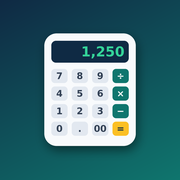
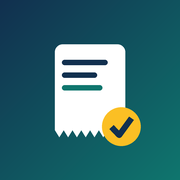
Add files via upload

Changed region(s): [[0.2222, 0.1667, 0.8056, 0.8611]]

diff --git a/index.html b/index.html
@@ -1,7 +1,7 @@
 <!DOCTYPE html><html lang="ar" dir="rtl"><head><meta charset="utf-8"><meta name="apple-mobile-web-app-capable" content="yes"><meta name="mobile-web-app-capable" content="yes"><meta name="theme-color" content="#12304f"><link rel="manifest" href="manifest.webmanifest"><link rel="apple-touch-icon" href="icon-180.png"><link rel="icon" href="icon-192.png"><meta name="viewport" content="width=device-width, initial-scale=1, viewport-fit=cover"><title>فواتير اليوم</title><style>
 :root{--bg:#f3f5f8;--cd:#fff;--tx:#18212b;--mu:#667383;--ac:#0e7c72;--on:#fff;--bd:#e1e6ec;--bad:#c0362c;color-scheme:light;box-sizing:border-box;padding-top:env(safe-area-inset-top,0px);padding-bottom:env(safe-area-inset-bottom,0px)}
-@media(prefers-color-scheme:dark){:root:not([data-theme="light"]){--bg:#0e141b;--cd:#17202a;--tx:#e8edf2;--mu:#8d9bab;--ac:#35cdb9;--on:#06241f;--bd:#243140;--bad:#ff7a70;color-scheme:dark}}
-:root[data-theme="dark"]{--bg:#0e141b;--cd:#17202a;--tx:#e8edf2;--mu:#8d9bab;--ac:#35cdb9;--on:#06241f;--bd:#243140;--bad:#ff7a70;color-scheme:dark}
+@media(prefers-color-scheme:dark){:root:not([data-theme="light"]){--bg:#0b1826;--cd:#122234;--tx:#e8edf2;--mu:#8d9bab;--ac:#35cdb9;--on:#06241f;--bd:#1f3349;--bad:#ff7a70;color-scheme:dark}}
+:root[data-theme="dark"]{--bg:#0b1826;--cd:#122234;--tx:#e8edf2;--mu:#8d9bab;--ac:#35cdb9;--on:#06241f;--bd:#1f3349;--bad:#ff7a70;color-scheme:dark}
 *{box-sizing:border-box}html,body{margin:0}body{background:var(--bg);color:var(--tx);font:15px/1.5 system-ui,"Segoe UI",Tahoma,Arial,sans-serif;max-width:560px;margin:auto;padding:12px}
 h1{font-size:18px;margin:4px 0}.mu{color:var(--mu);font-size:13px}.cd{background:var(--cd);border:1px solid var(--bd);border-radius:12px;padding:12px;margin:10px 0}
 button,.btn{font:inherit;background:var(--ac);color:var(--on);border:0;border-radius:10px;padding:10px 14px;cursor:pointer;display:inline-block}
@@ -23,15 +23,26 @@ input,select{border-radius:10px;padding:10px 12px}input:focus,select:focus{outli
 #ov{position:fixed;inset:0;background:rgba(0,0,0,.5);opacity:0;pointer-events:none;transition:opacity .2s;z-index:20}
 #dr{position:fixed;top:0;bottom:0;right:0;width:min(88vw,380px);background:var(--bg);z-index:21;transform:translateX(105%);transition:transform .25s;overflow-y:auto;padding:14px;padding-top:calc(14px + env(safe-area-inset-top,0px));box-shadow:-8px 0 30px rgba(0,0,0,.3)}
 body.dro #dr{transform:none}body.dro #ov{opacity:1;pointer-events:auto}.dh{display:flex;justify-content:space-between;align-items:center;margin-bottom:6px;font-size:17px}#dr>button{width:100%;margin-top:8px;text-align:right}
+body{padding-bottom:120px}
+#nav{position:fixed;bottom:calc(12px + env(safe-area-inset-bottom,0px));left:50%;transform:translateX(-50%);width:calc(100% - 28px);max-width:532px;height:64px;background:linear-gradient(135deg,#12304f,#0f4c5c);border-radius:22px;box-shadow:0 10px 30px rgba(0,0,0,.35);display:grid;grid-template-columns:1fr 1fr 76px 1fr 1fr;align-items:center;z-index:10}
+#nav button{position:relative;height:100%;background:none;border:0;border-radius:22px;padding:6px 0 4px;color:#7b8794;display:flex;flex-direction:column;align-items:center;justify-content:center;gap:3px;font-size:11px;font-weight:500;overflow:hidden}
+#nav button:not(.g){color:#fff}
+#nav button:not(.g)::before{content:"";position:absolute;top:0;left:50%;width:34px;height:3px;margin-left:-17px;background:#fbbf24;border-radius:0 0 4px 4px}
+#nav button:not(.g)::after{content:"";position:absolute;top:3px;left:50%;width:64px;height:100%;margin-left:-32px;background:linear-gradient(rgba(255,255,255,.2),transparent);clip-path:polygon(28% 0,72% 0,100% 100%,0 100%);pointer-events:none}
+#nav svg,#nav span{position:relative;z-index:1}
+#cb{width:60px;height:60px;border-radius:50%;margin:-34px auto 0;background:linear-gradient(135deg,#fbbf24,#f59e0b);color:#12304f;border:6px solid var(--bg);display:flex;align-items:center;justify-content:center;box-shadow:0 6px 16px rgba(0,0,0,.3);cursor:pointer}
+#t1b{position:absolute;top:5px;left:calc(50% + 6px);min-width:17px;height:17px;border-radius:9px;background:var(--ac);color:var(--on);font-size:11px;line-height:17px;text-align:center;padding:0 4px;z-index:2}#t1b:empty{display:none}
+#bd{position:absolute;top:9px;left:calc(50% + 8px);width:9px;height:9px;border-radius:50%;background:var(--bad);display:none;z-index:2}
+.brand{display:flex;align-items:center;gap:10px}.brand img{width:38px;height:38px;border-radius:11px;box-shadow:0 2px 8px rgba(18,48,79,.35)}.brand .mu{margin-inline-start:6px}
 </style></head><body>
-<div class="hd"><h1>فواتير اليوم <span class="mu" id="dt"></span></h1><button id="mb" onclick="openDr()" aria-label="القائمة">☰<i id="bd"></i></button></div><div id="ov" onclick="closeDr()"></div><div id="dr"><div class="dh"><b>القائمة</b><button class="g" onclick="closeDr()">✕</button></div><div class="mu" id="sv"></div><button class="g" id="gs" style="margin-top:6px">⚙ إعدادات القراءة (مفتاح Gemini)</button>
+<div class="hd"><h1 class="brand"><img src="icon-192.png" alt="">فواتير اليوم <span class="mu" id="dt"></span></h1></div><div id="ov" onclick="closeDr()"></div><div id="dr"><div class="dh"><b class="brand"><img src="icon-192.png" alt="">فواتير اليوم</b><button class="g" onclick="closeDr()">✕</button></div><div class="mu" id="sv"></div><button class="g" id="gs" style="margin-top:6px">⚙ إعدادات القراءة (مفتاح Gemini)</button>
 <button class="g" id="gcb" style="margin-top:6px">📋 كتالوج الشركة وأسعارها</button>
 <div class="cd" id="catc" style="display:none"><div class="mu">اكتب الصنف وسعر الشركة. الفرق في التقارير بيتحسب بالأسعار دي.</div><div id="catr"></div><button class="g" style="margin-top:8px" onclick="catAdd()">＋ صنف</button> <button style="margin-top:8px" onclick="catSave()">حفظ الكتالوج</button></div>
 <div class="cd" id="cfg" style="display:none"><div class="mu"><b>ربط القراءة الذكية (مرة واحدة بس)</b><br>1) دوس الزرار تحت وسجّل بحساب جوجل.<br>2) دوس <b>Create API key</b>.<br>3) انسخ المفتاح.<br>4) الصقه هنا ودوس <b>حفظ</b>.</div><a class="btn" href="https://aistudio.google.com/apikey" target="_blank" rel="noopener" style="margin:8px 0;text-decoration:none">🔑 افتح صفحة المفتاح</a><input id="gk" type="password" placeholder="الصق المفتاح هنا" dir="ltr"><input id="gm" dir="ltr" style="display:none"><button style="margin-top:8px" id="gsv">حفظ</button> <button class="g" style="margin-top:8px" id="gl">🔗 لينك بالمفتاح (يتبعت لواحد معاك)</button> <button class="g" style="margin-top:8px" id="gsh">📤 شارك التطبيق</button><input id="gu" readonly dir="ltr" style="display:none;margin-top:8px"><div class="mu" style="margin-top:12px"><b>نسخة احتياطية للبيانات</b> (ابعتها لنفسك على الواتساب)</div><button class="g" style="margin-top:6px" onclick="bkExport()">💾 احفظ نسخة</button> <label class="btn" style="background:transparent;border:1px solid var(--bd);color:var(--tx);margin-top:6px">📥 استرجاع<input type="file" accept=".json,application/json" hidden onchange="bkImport(this)"></label><div class="mu" id="bn"></div></div>
-<div class="cd" style="margin-top:12px"><div class="mu">شكل التطبيق</div><div class="row" style="margin-top:6px"><button class="g" onclick="theme('')">تلقائي</button><button class="g" onclick="theme('light')">فاتح</button><button class="g" onclick="theme('dark')">غامق</button></div></div></div><div id="setup"></div><label class="btn big" style="text-align:center;margin-top:8px" id="up">📷 ضيف صور الفواتير<input type="file" id="fi" accept="image/*" multiple hidden></label>
+<div class="cd" style="margin-top:12px"><div class="mu">شكل التطبيق</div><div class="row" style="margin-top:6px"><button class="g" onclick="theme('')">تلقائي</button><button class="g" onclick="theme('light')">فاتح</button><button class="g" onclick="theme('dark')">غامق</button></div></div></div><div id="setup"></div><input type="file" id="fi" accept="image/*" multiple hidden>
 <div class="mu" id="st" style="margin-top:6px"></div><button class="g" id="nd" style="margin-top:6px">🗑 ابدأ يوم جديد (مسح كل حاجة)</button>
-<div class="tabs"><button id="t1">الفواتير</button><button class="g" id="t2">التقرير</button><button class="g" id="t3">الأرشيف</button></div>
-<div id="v"></div>
+
+<div id="v"></div><nav id="nav"><button id="t1"><svg viewBox="0 0 24 24" width="22" height="22" fill="none" stroke="currentColor" stroke-width="1.8" stroke-linecap="round" stroke-linejoin="round"><path d="M6 3h12v18l-3-2-3 2-3-2-3 2z"/><path d="M9 8h6M9 12h6"/></svg><span>الفواتير</span><b id="t1b"></b></button><button class="g" id="t2"><svg viewBox="0 0 24 24" width="22" height="22" fill="none" stroke="currentColor" stroke-width="1.8" stroke-linecap="round" stroke-linejoin="round"><path d="M4 20h16M7 17v-5M12 17V6M17 17v-9"/></svg><span>التقرير</span></button><label for="fi" id="cb" aria-label="ضيف صور الفواتير"><svg viewBox="0 0 24 24" width="28" height="28" fill="none" stroke="currentColor" stroke-width="1.8" stroke-linecap="round" stroke-linejoin="round"><path d="M4 8h3l2-3h6l2 3h3v11H4z"/><circle cx="12" cy="13" r="3.5"/></svg></label><button class="g" id="t3"><svg viewBox="0 0 24 24" width="22" height="22" fill="none" stroke="currentColor" stroke-width="1.8" stroke-linecap="round" stroke-linejoin="round"><path d="M3 5h18v4H3zM5 9v10h14V9M10 13h4"/></svg><span>الأرشيف</span></button><button class="g" onclick="openDr()"><svg viewBox="0 0 24 24" width="22" height="22" fill="none" stroke="currentColor" stroke-width="1.8" stroke-linecap="round" stroke-linejoin="round"><path d="M4 7h16M4 12h16M4 17h16"/></svg><span>المزيد</span><i id="bd"></i></button></nav>
 <script>
 const $=s=>document.querySelector(s),esc=s=>String(s??'').replace(/[&<>"]/g,c=>({'&':'&amp;','<':'&lt;','>':'&gt;','"':'&quot;'}[c])),
 r2=x=>Math.round((+x||0)*100)/100,f=x=>r2(x).toLocaleString('en-US',{maximumFractionDigits:2});
@@ -81,7 +92,7 @@ function init(){const hm=location.hash.match(/k=([^&]+)/);if(hm){KEY_=decodeURIC
  $('#gs').onclick=()=>{const c=$('#cfg');c.style.display=c.style.display=='block'?'none':'block';$('#gk').value=KEY_;$('#gm').value=MODEL;bkNote()};
  $('#gsv').onclick=()=>{KEY_=$('#gk').value.trim();MODEL=$('#gm').value.trim()||'gemini-2.5-flash';localStorage.setItem('gk',KEY_);localStorage.setItem('gm',MODEL);$('#cfg').style.display='none';closeDr();msg('اتحفظ المفتاح')};
  if(!KEY_){$('#cfg').style.display='block';openDr()}
- $('#sv').textContent='نسخة 13 · البيانات بتتحفظ على التليفون ده'+(Date.now()-(+localStorage.getItem('lastbk')||0)>864e5?' · ⚠ خد نسخة احتياطية من الإعدادات':'');$('#bd').style.display=Date.now()-(+localStorage.getItem('lastbk')||0)>864e5?'block':'none';render()}
+ $('#sv').textContent='نسخة 15 · البيانات بتتحفظ على التليفون ده'+(Date.now()-(+localStorage.getItem('lastbk')||0)>864e5?' · ⚠ خد نسخة احتياطية من الإعدادات':'');$('#bd').style.display=Date.now()-(+localStorage.getItem('lastbk')||0)>864e5?'block':'none';render()}
 function save(){try{localStorage.setItem('day-'+KEY,JSON.stringify(S));ledSave()}catch(e){$('#sv').textContent='فشل الحفظ'}}
 const isum=v=>(v.items||[]).reduce((a,i)=>a+i.qty*i.price,0),T=v=>+v.total||isum(v),N=v=>v.after!=null&&v.after!==''?+v.after:T(v);
 function calc(){let t=0,n=0,vo=0,aj=0;S.inv.forEach(v=>{t+=T(v);n+=N(v);vo+=+v.voda||0;aj+=+v.ajl||0});const ex=S.exp.reduce((a,e)=>a+(+e.amt||0),0);let zy=0,kh=0;S.inv.forEach(v=>{const d=dz(v).diff;if(d>0.005)zy+=d;else if(d<-0.005)kh-=d});return{t,disc:t-n,n,vo,aj,cash:n-vo-aj,ex,fin:n-vo-aj-ex,zy,kh}}
@@ -95,9 +106,9 @@ $('#fi').onchange=async e=>{const L=[...e.target.files];e.target.value='';if(!S.
   }catch(er){if(['not_granted','sampling_disabled','rate_limited'].includes(er.code)){$('#st').textContent=er.code=='rate_limited'?'استنى شوية وكمّل':'المفتاح مش شغال — راجع ⚙ الإعدادات'+(er.detail?' ('+er.detail+')':'');return}lastE=er.detail||er.message;bad.push(i)}}
  $('#st').textContent='خلص. '+(dup.length?'فواتير مكررة اتجاهلت: '+dup.join('، ')+'. ':'')+(bad.length?'صور مقرتش: '+bad.join('، ')+(lastE?' — السبب: '+lastE:''):'')};
 $('#t1').onclick=()=>{tab=1;render()};$('#t2').onclick=()=>{tab=2;render()};$('#t3').onclick=()=>{tab=3;render()};
-function render(){setupUI();fix();$('#t1').className=tab==1?'':'g';$('#t2').className=tab==2?'':'g';$('#t1').textContent='الفواتير ('+S.inv.length+')';$('#t3').className=tab==3?'':'g';tab==1?inv():tab==2?rep():arc()}
+function render(){setupUI();fix();$('#t1').className=tab==1?'':'g';$('#t2').className=tab==2?'':'g';$('#t1b').textContent=S.inv.length||'';$('#t3').className=tab==3?'':'g';tab==1?inv():tab==2?rep():arc()}
 function inv(){const c=calc();let h='';
- if(!S.inv.length)h='<div class="cd mu">لسه مفيش فواتير. دوس «ضيف صور الفواتير» واختار الصور.</div>';
+ if(!S.inv.length)h='<div class="cd mu">لسه مفيش فواتير. دوس زرار الكاميرا في النص تحت واختار صور الفواتير.</div>';
  S.inv.forEach((v,k)=>{const bad=Math.abs(isum(v)-T(v))>0.5;
   h+=`<div class="cd"><div class="row"><b>#${esc(v.no)} · ${esc(v.customer)}</b><b>${f(N(v))}</b></div>
   <div class="mu">${isColl(v)?'تحصيل آجل (بدون نسبة) · ':''}${esc(v.time)} · إجمالي ${f(T(v))} · خصم ${f(T(v)-N(v))}${v.debt?' · مديونية سابقة '+f(v.debt):''}</div>
